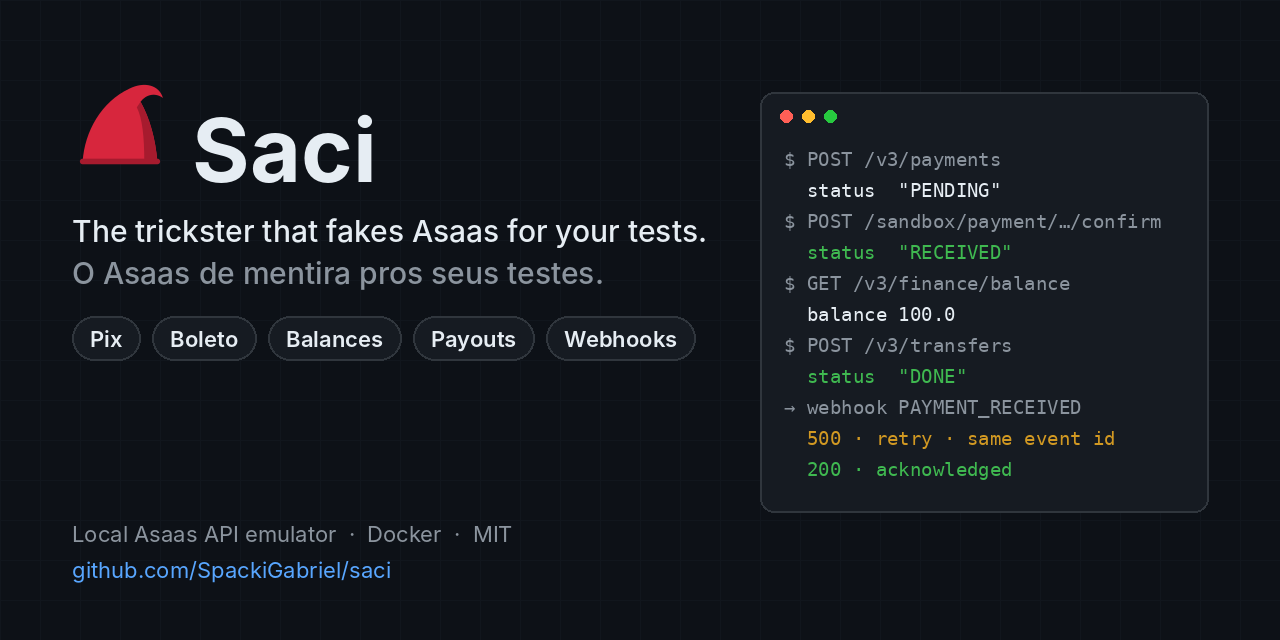
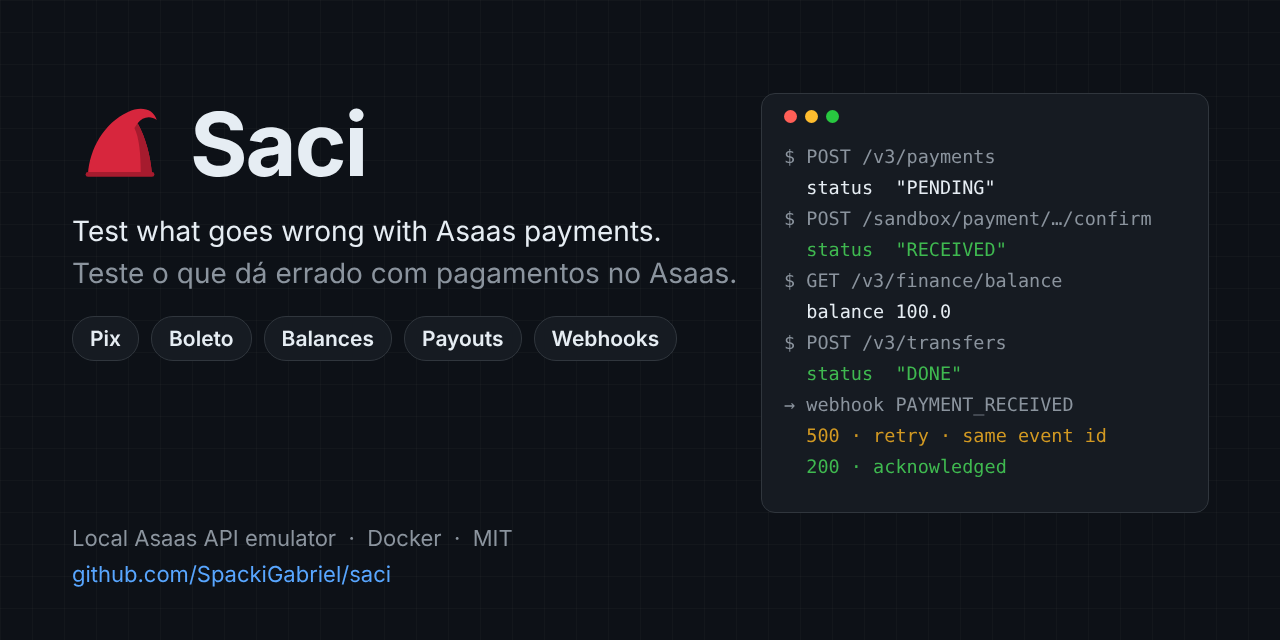
Lead with the problem: new tagline, opening and social preview

diff --git a/README.md b/README.md
@@ -4,8 +4,8 @@
 
 # Saci
 
-**O Asaas de mentira pros seus testes.**<br>
-Pix, boleto, saldo, repasses e webhooks de verdade, num servidor local que se comporta como a API real.
+**Teste o que dá errado com pagamentos no Asaas.**<br>
+Um servidor local que se comporta como a API do Asaas: Pix, boleto, saldo, repasses e webhooks, com o tempo e as falhas nas mãos dos seus testes.
 
 [![CI](https://github.com/SpackiGabriel/saci/actions/workflows/ci.yml/badge.svg)](https://github.com/SpackiGabriel/saci/actions/workflows/ci.yml)
 [![Docker image](https://github.com/SpackiGabriel/saci/actions/workflows/docker.yml/badge.svg)](https://github.com/SpackiGabriel/saci/pkgs/container/saci)
@@ -15,6 +15,10 @@ Pix, boleto, saldo, repasses e webhooks de verdade, num servidor local que se co
 **Português** · [English](README.en.md)
 
 </div>
+
+Os bugs que doem numa integração de pagamentos raramente estão no caminho feliz. Estão no webhook que chega duas vezes, no endpoint que ficou fora do ar por uma hora enquanto os eventos se acumulavam, na cobrança que venceu no fim de semana e nos dois repasses que disputaram o mesmo saldo. No sandbox, quase nenhum deles dá para provocar dentro de um teste: o relógio não anda e o estado nunca é limpo.
+
+O Saci roda a API do Asaas na sua máquina e deixa seus testes provocarem cada um desses casos: avançar o relógio, reentregar webhooks depois que seu endpoint falhou, fazer um repasse falhar, mandar transferências que disputam o mesmo saldo.
 
 ```bash
 docker run --rm -p 8000:8000 ghcr.io/spackigabriel/saci
@@ -33,11 +37,9 @@ Com o servidor no ar, `http://localhost:8000/docs` mostra todos os endpoints num
 
 ---
 
-## O problema
+## Por que não o sandbox ou um mock
 
-Os bugs que doem numa integração de pagamentos em produção raramente estão no caminho feliz. Estão no webhook que chega duas vezes, no endpoint que ficou fora do ar por uma hora enquanto os eventos se acumulavam, na cobrança que venceu no fim de semana e nos dois repasses que disputaram o mesmo saldo.
-
-São justamente os casos que hoje **não dá** para testar direito:
+O que cada opção permite testar:
 
 |  | Sandbox real | Mock feito à mão | **Saci** |
 | --- | :---: | :---: | :---: |

diff --git a/README.en.md b/README.en.md
@@ -4,8 +4,8 @@
 
 # Saci
 
-**A fake Asaas for your tests.**<br>
-Pix, boleto, balances, payouts and real webhook deliveries, in a local server that behaves like the real API.
+**Test what goes wrong with Asaas payments.**<br>
+A local server that behaves like the Asaas API: Pix, boleto, balances, payouts and webhooks, with time and failures in your tests' hands.
 
 [![CI](https://github.com/SpackiGabriel/saci/actions/workflows/ci.yml/badge.svg)](https://github.com/SpackiGabriel/saci/actions/workflows/ci.yml)
 [![Docker image](https://github.com/SpackiGabriel/saci/actions/workflows/docker.yml/badge.svg)](https://github.com/SpackiGabriel/saci/pkgs/container/saci)
@@ -15,6 +15,10 @@ Pix, boleto, balances, payouts and real webhook deliveries, in a local server th
 [Português](README.md) · **English**
 
 </div>
+
+The bugs that hurt a payment integration are rarely on the happy path. They are the webhook that arrives twice, the endpoint that was down for an hour while events piled up, the charge that went overdue over the weekend, and the two payouts that raced for the same balance. On the sandbox you can't trigger most of them from a test: the clock doesn't move and the state is never reset.
+
+Saci runs the Asaas API on your machine and lets your tests trigger each of these cases: move the clock forward, redeliver webhooks after your endpoint failed, make a payout fail, send transfers that compete for the same balance.
 
 ```bash
 docker run --rm -p 8000:8000 ghcr.io/spackigabriel/saci
@@ -33,11 +37,9 @@ With the server running, `http://localhost:8000/docs` lists every endpoint on an
 
 ---
 
-## The problem
+## Why not the sandbox or a mock
 
-The bugs that hurt a payment integration in production are rarely the happy path. They are the webhook that arrives twice, the endpoint that was down for an hour while events piled up, the charge that went overdue over the weekend, and the two payouts that raced for the same balance.
-
-Those are exactly the cases you **cannot** test well today:
+What each option lets you test:
 
 |  | Real sandbox | Hand-written mock | **Saci** |
 | --- | :---: | :---: | :---: |
